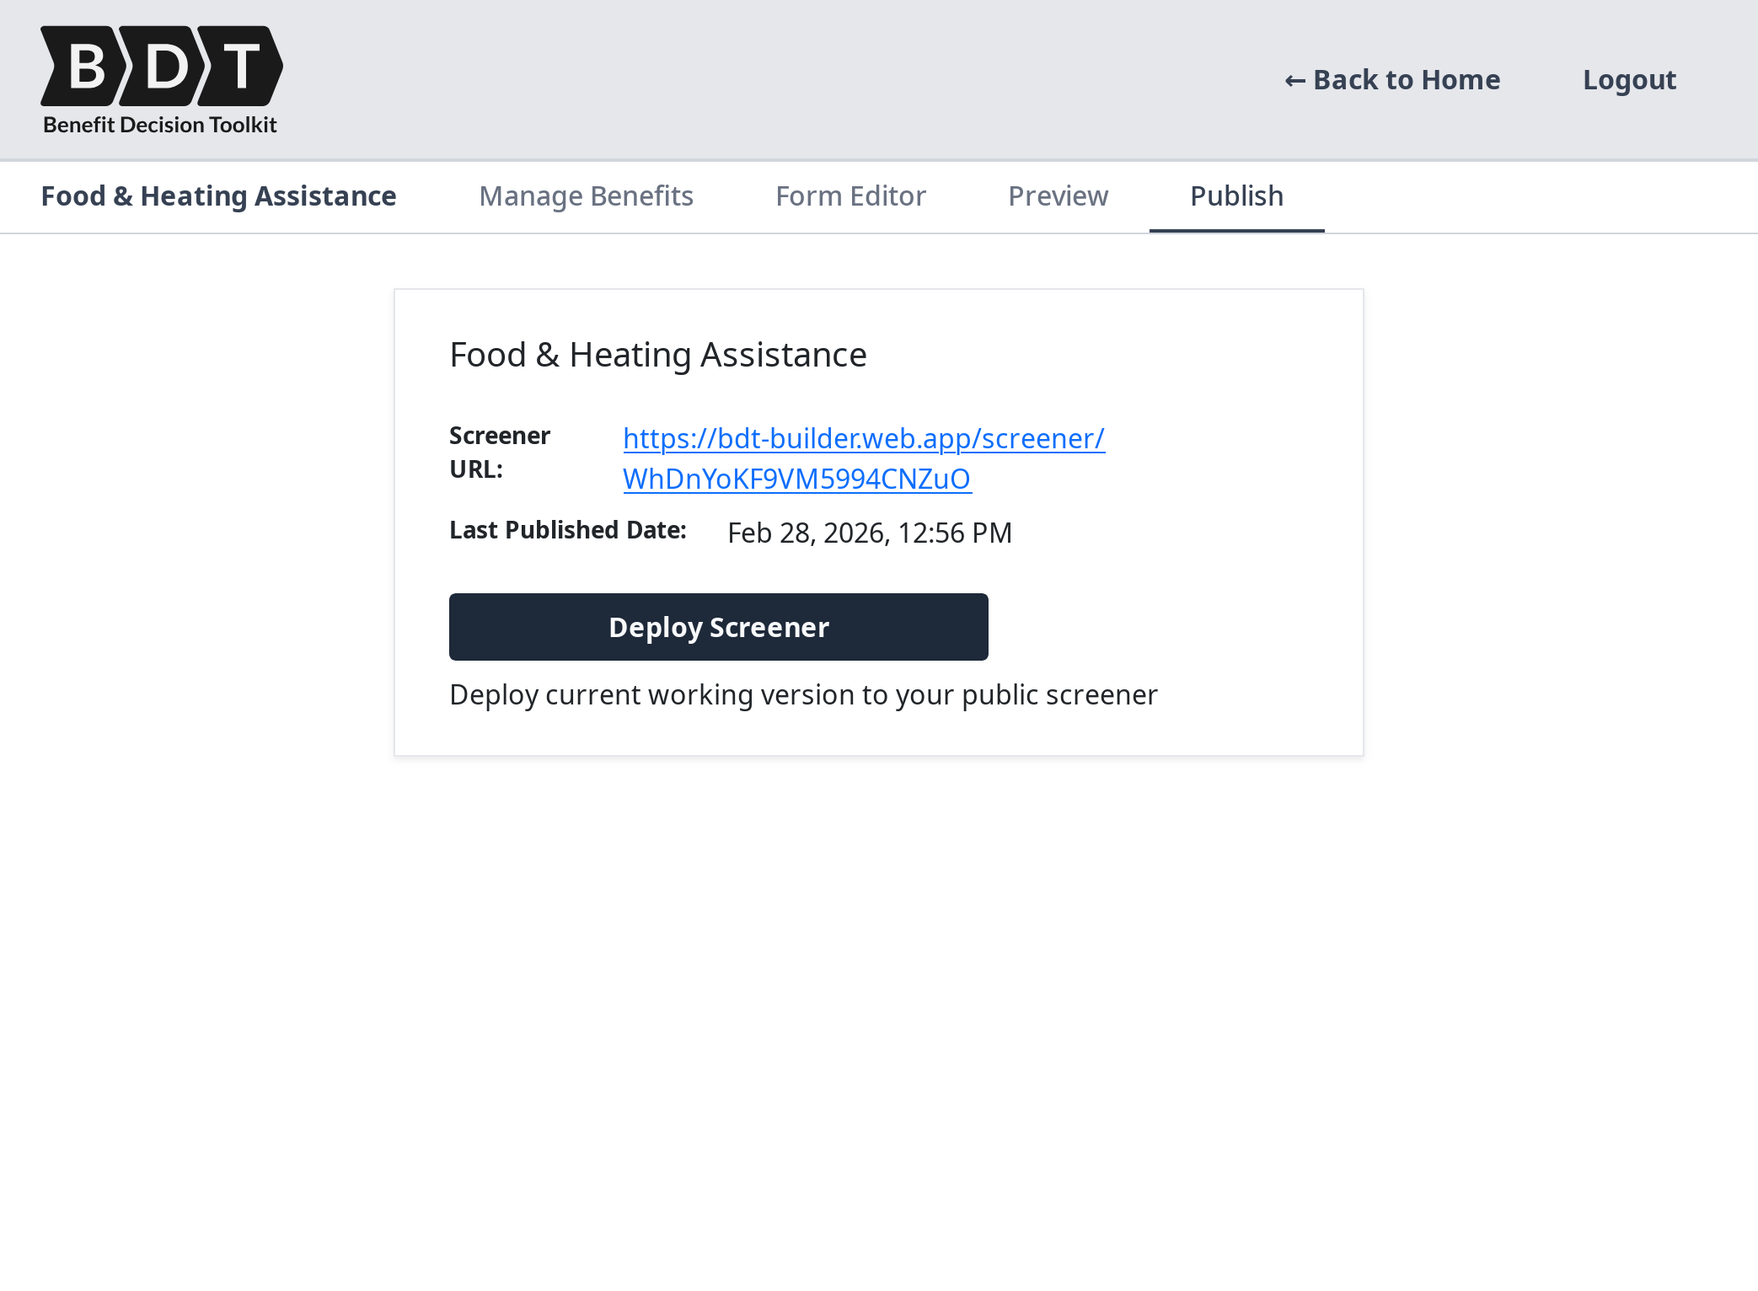
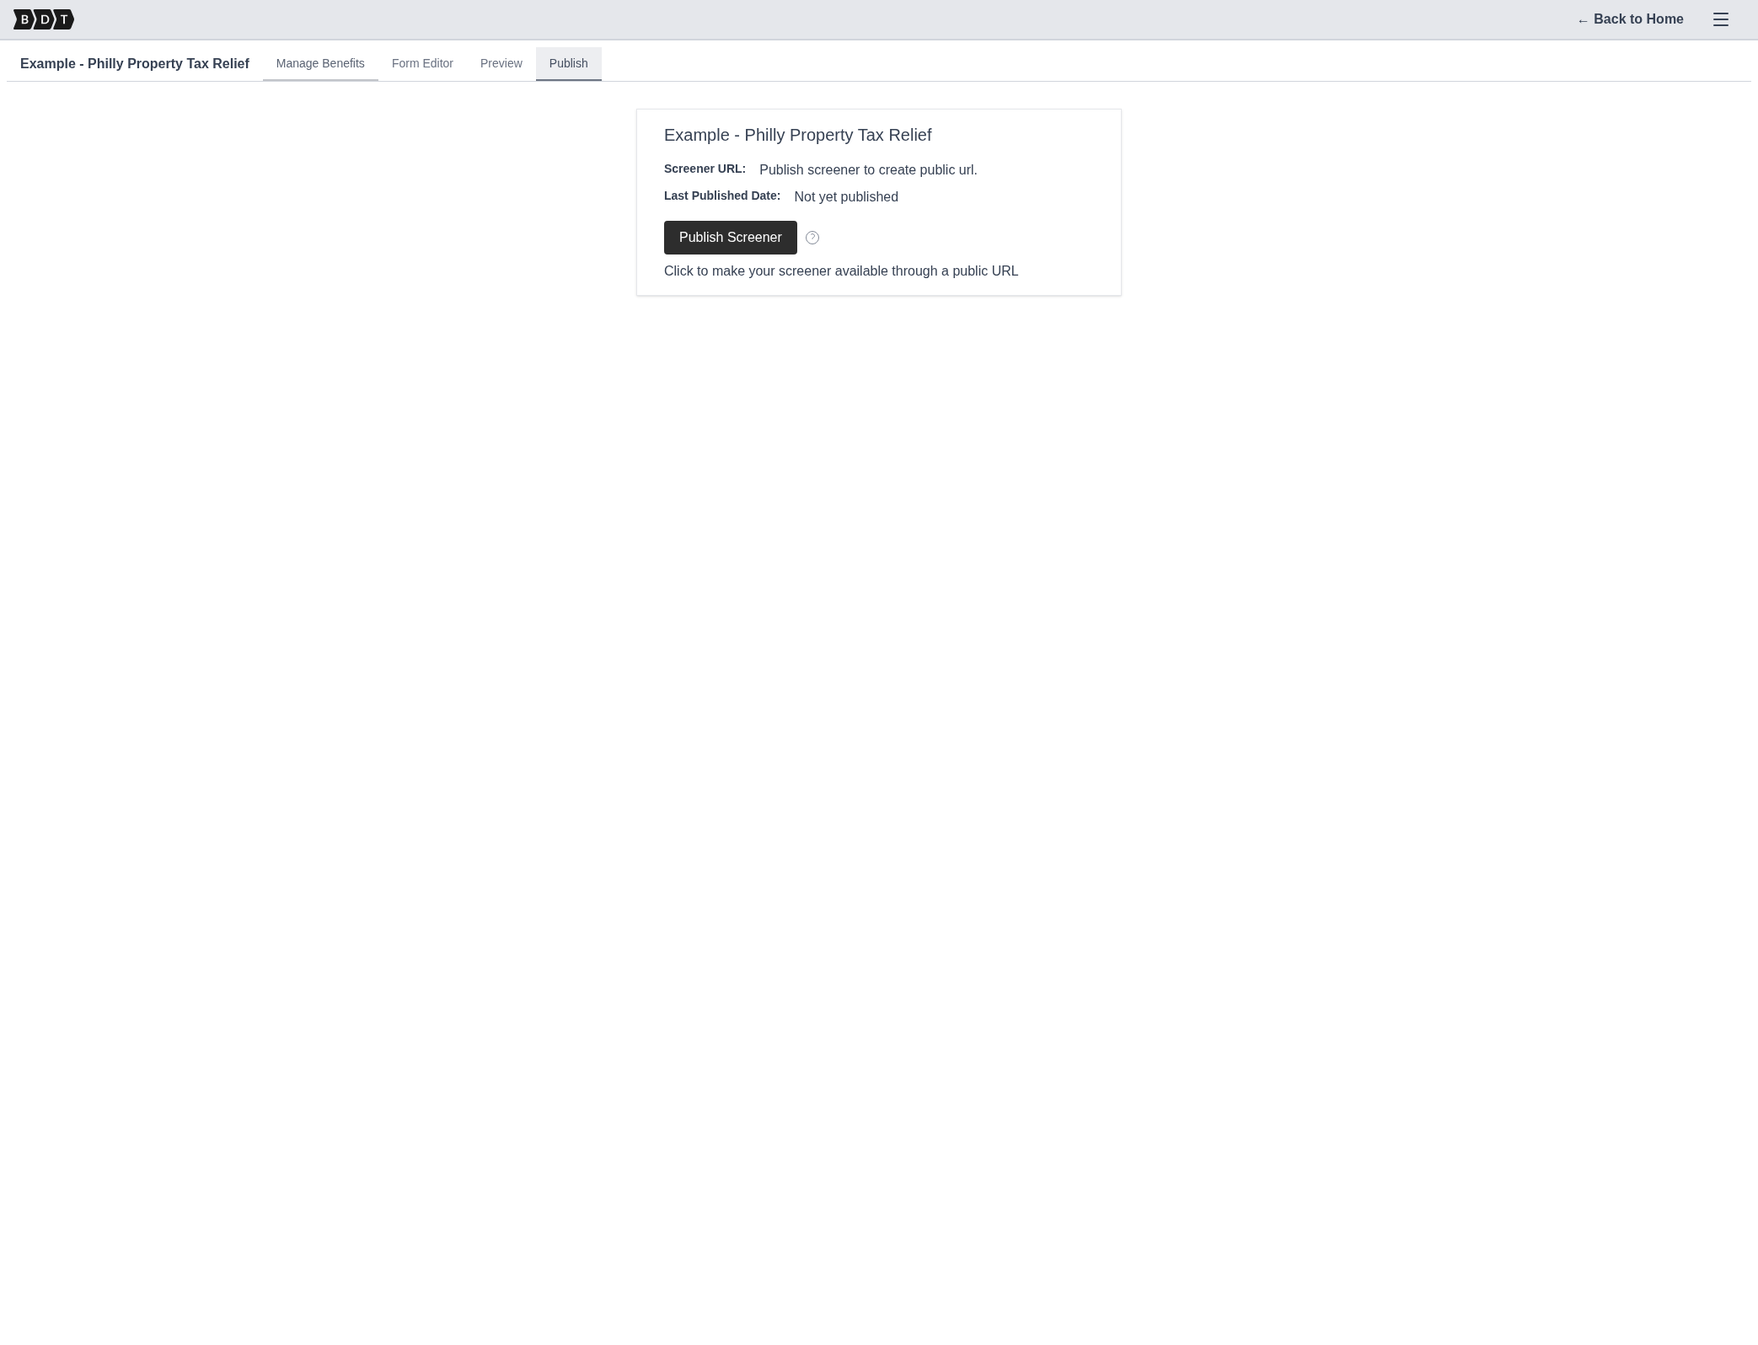
Review and refresh project documentation

diff --git a/builder-frontend/src/components/project/manageBenefits/benefitList/BenefitList.tsx b/builder-frontend/src/components/project/manageBenefits/benefitList/BenefitList.tsx
@@ -43,10 +43,10 @@ const BenefitList = ({
           </p>
           <p>
             <a
-              href="https://bdt-docs.web.app/user-guide/#3-defining-eligibility-logic-manage-benefits"
+              href="https://bdt-docs.web.app/user/user-guide/#3-defining-eligibility-logic-manage-benefits"
               target="_blank"
             >
-              Read about defining elegibility logic in the docs
+              Read about defining eligibility logic in the docs
             </a>
           </p>
         </Tooltip>

diff --git a/builder-frontend/src/components/project/Publish.tsx b/builder-frontend/src/components/project/Publish.tsx
@@ -91,7 +91,7 @@ export default function Publish({ project, refetchProject }) {
               </p>
               <p>
                 <a
-                  href="https://bdt-docs.web.app/user-guide/#7-publishing-your-screener"
+                  href="https://bdt-docs.web.app/user/user-guide/#7-publishing-your-screener"
                   target="_blank"
                 >
                   Read about publishing your screener in the docs

diff --git a/builder-frontend/src/components/project/manageBenefits/configureBenefit/ConfigureBenefit.tsx b/builder-frontend/src/components/project/manageBenefits/configureBenefit/ConfigureBenefit.tsx
@@ -55,7 +55,7 @@ const ConfigureBenefit = ({
                 </p>
                 <p>
                   <a
-                    href="https://bdt-docs.web.app/user-guide/#4-configuring-a-benefit"
+                    href="https://bdt-docs.web.app/user/user-guide/#4-configuring-a-benefit"
                     target="_blank"
                   >
                     Read about configuring a benefit in the docs

diff --git a/builder-frontend/src/components/homeScreen/eligibilityCheckList/EligibilityChecksList.tsx b/builder-frontend/src/components/homeScreen/eligibilityCheckList/EligibilityChecksList.tsx
@@ -49,7 +49,10 @@ const EligibilityChecksList = () => {
             checks.
           </p>
           <p>
-            <a href="https://bdt-docs.web.app/custom-checks/" target="_blank">
+            <a
+              href="https://bdt-docs.web.app/user/custom-checks/"
+              target="_blank"
+            >
               Read about custom eligibility checks in the docs
             </a>
           </p>

diff --git a/builder-frontend/src/components/project/preview/Preview.tsx b/builder-frontend/src/components/project/preview/Preview.tsx
@@ -81,7 +81,7 @@ const Preview = ({ project, formSchema }) => {
             </p>
             <p>
               <a
-                href="https://bdt-docs.web.app/user-guide/#6-previewing-your-screener"
+                href="https://bdt-docs.web.app/user/user-guide/#6-previewing-your-screener"
                 target="_blank"
               >
                 Read about previewing your screener in the docs

diff --git a/builder-frontend/src/components/homeScreen/eligibilityCheckList/eligibilityCheckDetail/ParametersConfiguration.tsx b/builder-frontend/src/components/homeScreen/eligibilityCheckList/eligibilityCheckDetail/ParametersConfiguration.tsx
@@ -46,7 +46,7 @@ const ParametersConfiguration = ({
           </p>
           <p>
             <a
-              href="https://bdt-docs.web.app/custom-checks/#4-the-custom-check-editor"
+              href="https://bdt-docs.web.app/user/custom-checks/#4-the-custom-check-editor"
               target="_blank"
             >
               Read about the custom check editor in the docs

diff --git a/docs/src/content/docs/user/user-guide.md b/docs/src/content/docs/user/user-guide.md
@@ -11,7 +11,7 @@ This guide walks through how to create, configure, test, and publish an eligibil
 
 After signing in, you will land on the **Screeners** view. This page displays all of your existing screener projects and serves as your starting point for creating and managing screeners.
 
-![Benefit Decision Toolkit homepage featuring a welcome message and an option to create a new screener. The page includes a navigation bar with options for 'Screeners' and 'Eligibility checks'. There is also a card labeled 'Food & Heating Assistance' with a menu option indicated by three dots.](../../../assets/screenshots/screener-dashboard.png)
+![Benefit Decision Toolkit home page showing the Create new screener button, account menu, and an example screener card.](../../../assets/screenshots/screener-dashboard.png)
 
 From here, you can:
 
@@ -21,7 +21,7 @@ From here, you can:
 
 **Creating a new screener**:
 
-Select **Create New Screener** and provide a name for your screener. The name should clearly reflect the benefit or set of benefits being screened (for example, "Philadelphia Senior Benefits" or "Housing Assistance Eligibility").
+Select **Create new screener** and provide a name for your screener. The name should clearly reflect the benefit or set of benefits being screened (for example, "Philadelphia Senior Benefits" or "Housing Assistance Eligibility").
 
 After the screener is created, you are automatically taken to the **Screener Dashboard**.
 
@@ -59,11 +59,12 @@ A single screener can evaluate eligibility for one or multiple benefits. Each be
 
 The **Manage Benefits** tab displays all benefits configured for your screener as a list of cards.
 
-![Manage Benefits page of the Benefit Decision Toolkit. The page allows users to define and organize benefits available in their screener, with each benefit having associated eligibility checks. There is a 'Create New Benefit' button at the top. Two benefits are listed: Food Assistance, described as 'Help with affording groceries,' and Heating Assistance, described as 'Discount on PGW bill.' Each benefit has 'Edit' and 'Remove' buttons for managing the entries. The navigation bar at the top includes links to Food & Heating Assistance, Manage Benefits, Form Editor, Preview, and Publish.](../../../assets/screenshots/manage-benefits.png)
+![Manage Benefits page of Benefit Decision Toolkit showing benefit cards and controls for adding benefits.](../../../assets/screenshots/manage-benefits.png)
 
 From this view, you can:
 
-- **Create** a new benefit by selecting **Create New Benefit** and providing a name and description
+- **Create a custom benefit** by selecting **Create custom benefit** and providing a name and description
+- **Add a library benefit** by selecting **Add library benefit**, choosing a pre-built benefit, and selecting **Add to screener**. The imported copy can then be edited without changing the library source.
 - **Edit** a benefit by selecting **Edit** on its card, which opens the **Configure Benefit** page
 - **Remove** a benefit by selecting **Remove** on its card
 
@@ -185,6 +186,12 @@ Each benefit's result also shows a breakdown of how each individual eligibility 
 
 > Use the Preview tab iteratively as you build your screener to confirm that each benefit evaluates correctly across a range of test inputs.
 
+After an evaluation, BDT may hide questions that no remaining benefit needs.
+For example, if an answer makes a benefit ineligible, later questions used only
+by that benefit no longer need to be answered. Use **Show all questions** to
+review the complete form, and **Hide questions that aren't needed** to return
+to the adaptive view.
+
 ---
 
 ## 7. Publishing Your Screener
@@ -193,15 +200,17 @@ The **Publish** tab is where you deploy your screener to a publicly accessible U
 
 **To publish your screener**:
 
-Select **Deploy Screener**. BDT will package your current form and eligibility logic and make them available at a public URL. The URL is displayed on the Publish tab after the first deployment.
+Select **Publish Screener**. BDT will package your current form and eligibility logic and make them available at a public URL. The URL is displayed on the Publish tab after the first publication.
 
 The Publish tab shows:
 
 - **Screener URL** — the public link where end users can access and submit the screener
 - **Last Published Date** — the date and time of the most recent deployment
 
-> Deploying your screener publishes a snapshot of the current form and benefit configuration. Subsequent edits to the form or eligibility logic are not reflected at the public URL until you deploy again.
+![Publish tab showing the public screener URL, last-published date, and Publish Screener button.](../../../assets/screenshots/publish.png)
 
-If you update your screener after publishing, return to the **Publish** tab and select **Deploy Screener** again to push the updated version to the public URL.
+> Publishing your screener creates a snapshot of the current form and benefit configuration. Subsequent edits to the form or eligibility logic are not reflected at the public URL until you publish again.
 
-![The image shows a form and eligibility results for Food & Heating Assistance. The form asks if the user lives in Philly, with "Yes" selected, and prompts the user to enter their birthday, which is filled in as 2/18/1990. It also asks if the user owns their house, with "No" selected, and allows the user to select the benefit they are enrolled in, with "Food Assistance" chosen. The eligibility results section indicates that the user is eligible for Food Assistance, meeting criteria such as residence in Philadelphia and being at least 18 years old. However, the user is ineligible for Heating Assistance because, although they meet age and enrollment criteria, they do not meet the owner-occupant residence requirement.](../../../assets/screenshots/published-screener.png)
+If you update your screener after publishing, return to the **Publish** tab and select **Publish Screener** again to push the updated version to the public URL.
+
+![Published example screener displaying the public form that applicants complete.](../../../assets/screenshots/published-screener.png)

diff --git a/docs/src/content/docs/user/custom-checks.md b/docs/src/content/docs/user/custom-checks.md
@@ -94,15 +94,16 @@ For a deeper understanding of DMN and FEEL, refer to the official documentation:
 
 ## 3. Managing Custom Checks
 
-The **Eligibility Checks** view lists all of the custom checks you have created. You can access it from the BDT home screen by selecting the **Eligibility Checks** tab.
+The **Eligibility Checks** view lists all of the custom checks you have created. Open the menu in the upper-right corner of BDT and select **Custom Checks**.
 
 From this view, you can:
 
 - View all of your custom checks
 - Create a new custom check
 - Open an existing check to edit or publish it
+- Archive a check that is no longer in use, or restore an archived check
 
-> TODO: Add image of Eligibility Checks list view
+![Eligibility Checks view showing the Create New Check control and the current user's checks.](../../../assets/screenshots/custom-checks-list.png)
 
 ### Creating a New Check
 
@@ -112,7 +113,7 @@ To create a new custom check, select **Create New Check**. You will be prompted 
 - **Module** — the category or group that this check belongs to (e.g., `housing`)
 - **Description** — a brief explanation of what the check evaluates
 
-Once created, the check opens in the **Custom Check Editor**, where you define its logic, configure its parameters, test it, and publish it.
+Once created, the check opens in the **Custom Check Editor** with a starter DMN model. From there, you configure parameters, define the logic, test it, and publish it.
 
 ---
 
@@ -120,12 +121,12 @@ Once created, the check opens in the **Custom Check Editor**, where you define i
 
 When you open a custom check, you are taken to the **Custom Check Editor**. This editor has four tabs that guide you through the process of building and publishing a check:
 
-- **Parameters** — define configurable inputs for your check
+- **Parameter Configuration** — define configurable inputs for your check
 - **DMN Definition** — build the decision logic using the visual DMN editor
 - **Testing** — run the check against sample inputs to verify it behaves correctly
 - **Publish** — publish a version of the check to make it available in your screeners
 
-> TODO: Add image of Custom Check Editor navigation tabs
+![Custom Check Editor showing the Parameter Configuration, DMN Definition, Testing, and Publish tabs.](../../../assets/screenshots/custom-check-editor.png)
 
 ---
 
@@ -148,8 +149,6 @@ Select **Create New Parameter** and fill in the following fields:
 - **Type** — the data type: `string`, `number`, `boolean`, or `date`
 - **Required** — whether the parameter must be provided when the check is added to a benefit
 
-> TODO: Add image of Parameters tab and Parameter modal
-
 ---
 
 ### 4.2 DMN Definition
@@ -165,8 +164,6 @@ Select **Save Changes** to persist your DMN model. The save button turns yellow 
 **Validating your DMN**:
 
 Select **Validate Current DMN** to check your model for structural or syntax errors. If validation issues are found, a summary of the errors is displayed. Resolve all validation errors before testing or publishing your check.
-
-> TODO: Add image of DMN Definition tab
 
 ---
 
@@ -203,8 +200,6 @@ Select **Run Test** to evaluate the check against your input data. The result is
 
 Use the testing tab iteratively as you build your DMN logic to confirm each rule behaves as expected.
 
-> TODO: Add image of Testing tab with a sample result
-
 ---
 
 ### 4.4 Publish
@@ -228,5 +223,3 @@ Each published version displays:
 - **Module** — the module identifier
 
 Once published, the check and its version will appear in the **Your Checks** section when adding eligibility checks to a benefit in any of your screeners.
-
-> TODO: Add image of Publish tab with published versions list

diff --git a/docs/README.md b/docs/README.md
@@ -1,19 +1,70 @@
 # BDT Docs
 
-How to contribute to the docs
+The documentation site is built with Astro and Starlight.
 
 ## Setup
 
-`cd docs/`
+```bash
+cd docs
+npm ci
+npm run dev
+```
 
-`npm install`
+Before opening a pull request, build the site locally:
 
-`npm run dev`
+```bash
+npm run build
+```
 
 ## Docs Pages
 
-Each page in the docs is a markdown file located at content/docs/...
+Each page in the docs is a Markdown file under `src/content/docs/`.
 
 To edit a docs page, simply edit the markdown file.
 
-To add a docs page, add a markdown file in the appropriate directory (`user/` for user-facing pages or `dev/` for developer-facing pages). The file must include [frontmatter](https://www.markdownlang.com/advanced/frontmatter.html) with `title` and `description` fields. In `astro.config.mjs`, add an item to the sidebar in the appropriate location to add your page to the sidebar.
+To add a page, put it in the appropriate directory (`user/` for user-facing
+pages or `dev/` for developer-facing pages). The file must include
+[frontmatter](https://docs.astro.build/en/guides/markdown-content/#frontmatter-layout)
+with `title` and `description` fields. Add the page to the sidebar in
+`astro.config.mjs`.
+
+## Documentation audit checklist
+
+Use this checklist for a periodic AI-assisted audit and when a pull request
+changes user-visible behavior:
+
+1. Inventory `README.md` files and pages under `docs/src/content/docs/`.
+2. Compare UI labels and workflows with `builder-frontend/src/` and its tests.
+3. Compare commands, ports, versions, and API examples with build files,
+   configuration, scripts, and CI workflows.
+4. Check internal links and confirm that screenshots still show the workflow
+   described by the surrounding text.
+5. For every proposed correction, cite the documentation location and the
+   source or test that proves it is stale. Do not change claims that cannot be
+   verified.
+6. Apply high-confidence corrections directly. Record uncertain or larger
+   follow-up work as issues rather than guessing.
+7. Run `npm run build` from `docs/` and report any checks that could not run.
+
+A useful AI prompt is: “Audit the maintained documentation in this repository
+against the current implementation and tests. Report only evidence-backed
+discrepancies with file locations, then propose scoped corrections. Treat the
+application source, tests, build configuration, and CI workflows as the source
+of truth.” Human review remains required, especially for product language and
+screenshots.
+
+### Refreshing UI screenshots
+
+Start the local development stack, then run:
+
+```bash
+cd e2e
+npm ci
+npm run capture-docs-screenshots
+```
+
+The script creates a temporary account in the local Firebase emulator and
+captures the main navigation, benefit-management, publishing, and custom-check
+screens at a consistent viewport. Review every generated image before
+committing it. Other screenshots should still be updated manually when their
+specific workflow changes.

diff --git a/docs/src/content/docs/user/intro.md b/docs/src/content/docs/user/intro.md
@@ -19,7 +19,7 @@ An **eligibility screener** is a web-based form that:
 2. Evaluates that information against defined eligibility rules
 3. Displays eligibility results based on the evaluation
 
-![An eligibility form for assistance programs. The form asks if the user lives in Philly, their birthday, if they own their house, and which benefits they are enrolled in. The results show that the user is eligible for Food Assistance because they live in Philadelphia, are over 18, and are enrolled in Food Assistance. However, they are ineligible for Heating Assistance because although they are enrolled in Food Assistance and over 18, they do not own their house.](../../../assets/screenshots/example-screener.png)
+![A published eligibility screener form that collects the information needed to evaluate an applicant.](../../../assets/screenshots/example-screener.png)
 
 Each screener has two primary components that work together:
 
@@ -48,6 +48,10 @@ A **Screener** is the top-level project in BDT. It represents the complete web e
 A **Benefit** is a named program that you want to screen applicants for (for example, "SNAP" or "Medicaid"). Each screener can contain one or more benefits, and each benefit is evaluated independently.
 
 A user is eligible for a benefit only if all of its eligibility rules evaluate to `True`.
+
+You can create a custom benefit or start from a pre-built benefit in the BDT
+library. Library benefits are copied into your screener so you can adjust their
+name, description, and eligibility checks.
 
 ### 3.3 Eligibility Checks
 

diff --git a/library-api/README.md b/library-api/README.md
@@ -219,11 +219,11 @@ Pushing the tag triggers GitHub Actions → Docker build → Google Cloud Run de
 
 | Technology | Version | Purpose |
 |------------|---------|---------|
-| Java | 17 | Runtime |
-| Quarkus | 2.16.12.Final | Framework |
-| Kogito | 1.44.1.Final | DMN engine |
+| Java | 21 | Runtime |
+| Quarkus | 3.27.2 | Framework |
+| Kogito | 10.2.0 | DMN engine |
 | Maven | 3.8+ | Build tool |
-| DMN | 1.3 | Decision modeling |
+| DMN | 1.6 | Decision modeling |
 | Bruno | Latest | API testing |
 
 ### Key Commands
@@ -239,14 +239,14 @@ mvn test                  # Java tests
 cd test/bdt && bru run    # Bruno tests
 
 # Deployment
-./bin/tag-release 0.4.0   # Create release
+./bin/tag-release X.Y.Z   # Create release
 ```
 
 ### Important Constraints
 
 1. All DMN model names must be globally unique
 2. Decision Services must be named `{ModelName}Service`
-3. Java 17 required (not 21 like main BDT project)
+3. Java 21 required
 4. Hot reload works for DMN only; Java changes need restart
 5. Imported decision services can't share names
 

diff --git a/.github/copilot-instructions.md b/.github/copilot-instructions.md
@@ -1,0 +1,7 @@
+When reviewing a pull request that changes user-visible behavior, UI labels,
+commands, ports, configuration, APIs, or contributor workflows, check whether
+the corresponding README files and pages under `docs/src/content/docs/` also
+need changes. Report only evidence-backed documentation discrepancies and cite
+both the stale documentation and the implementation, test, or configuration
+that conflicts with it. Treat AI documentation feedback as advisory and do not
+approve changes solely because an automated review found no issues.
